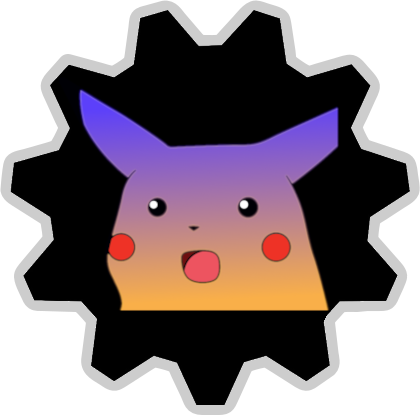
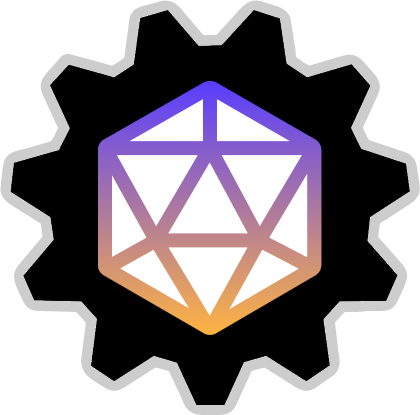
Revert "Just some April fools day fun y'all"
This reverts commit c3705bb1bb3e683825698d8eec92e5f23cf69567.

Changed region(s): [[0.1857, 0.1735, 0.8048, 0.8096]]

diff --git a/src/spellbot/constants.py b/src/spellbot/constants.py
@@ -4,11 +4,11 @@ ADMIN_ROLE = "SpellBot Admin"
 CREATE_ENDPOINT = "https://us-central1-magic-night-30324.cloudfunctions.net/createGame"
 THUMB_URL = (
     "https://raw.githubusercontent.com/lexicalunit/spellbot/master/spellbot.png"
-    f"?{datetime.today().strftime('%Y-%m-%d')}-p"  # workaround over-eager caching
+    f"?{datetime.today().strftime('%Y-%m-%d')}"  # workaround over-eager caching
 )
 ICO_URL = (
     "https://raw.githubusercontent.com/lexicalunit/spellbot/master/spellbot-sm.png"
-    f"?{datetime.today().strftime('%Y-%m-%d')}-p"  # workaround over-eager caching
+    f"?{datetime.today().strftime('%Y-%m-%d')}"  # workaround over-eager caching
 )
 DEFAULT_GAME_SIZE = 4
 INVITE_LINK = (
